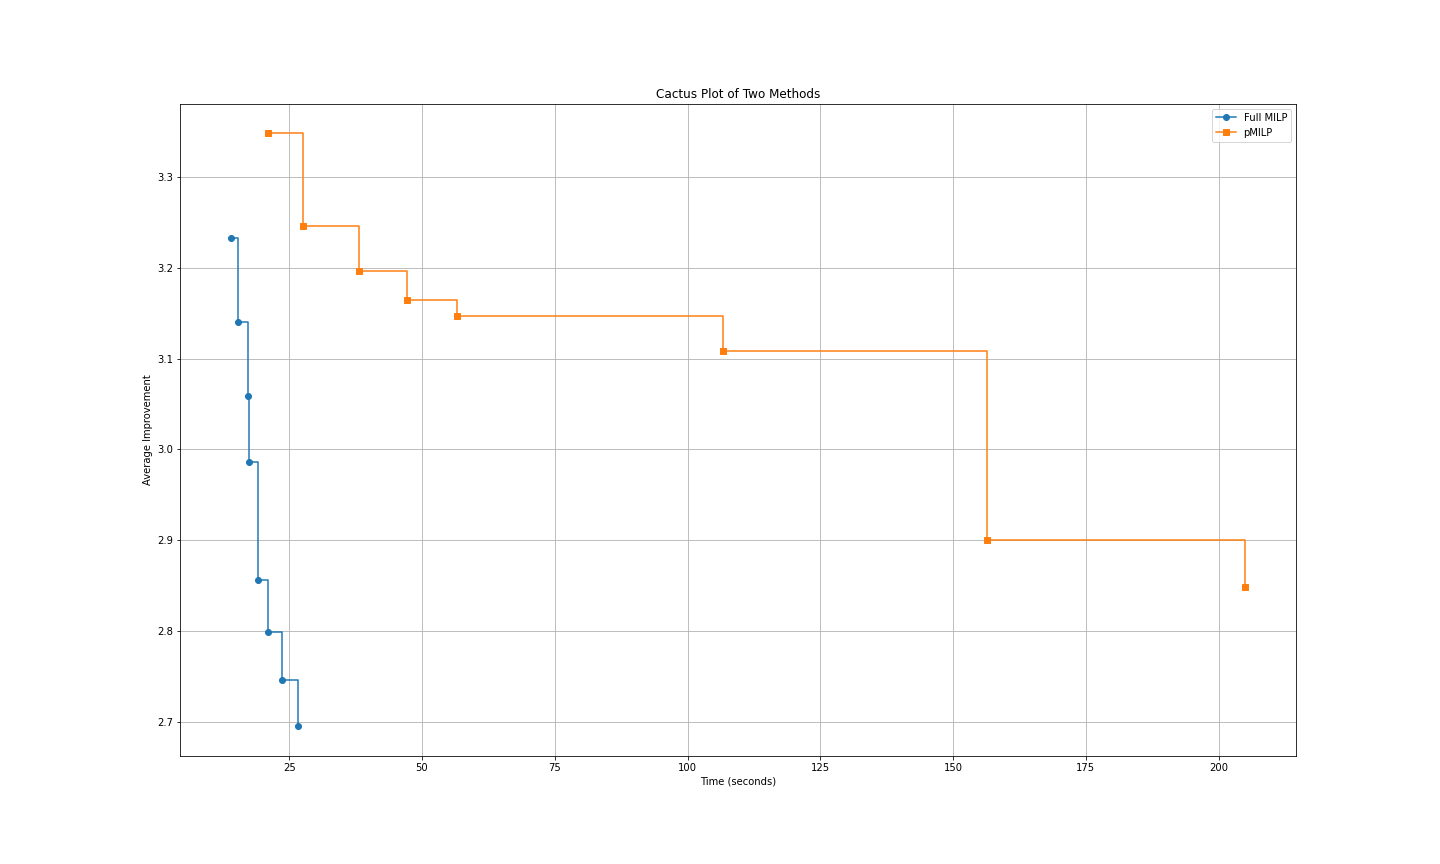
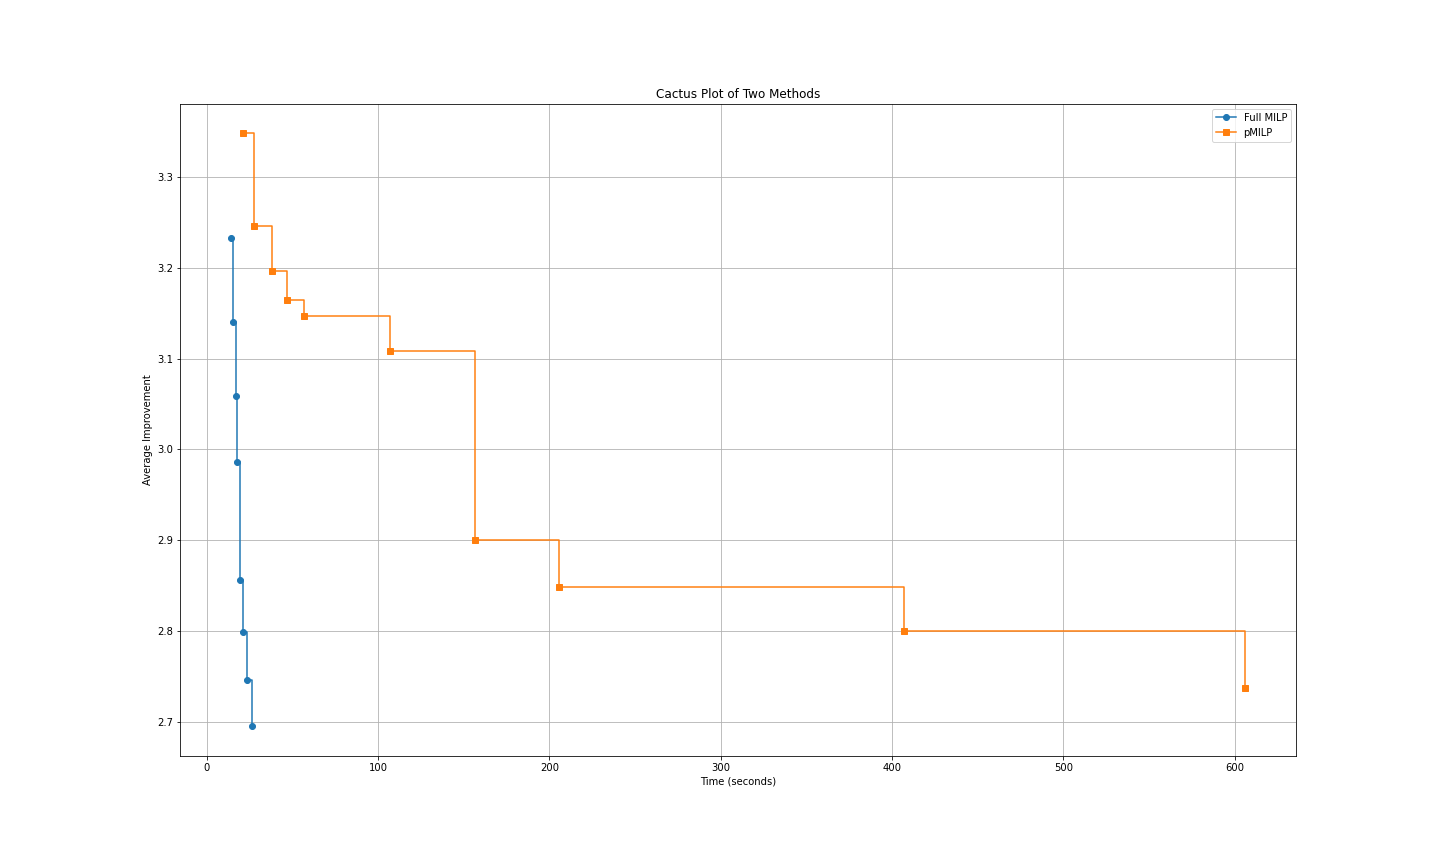
update

diff --git a/ICLR25/proofs.tex b/ICLR25/proofs.tex
@@ -165,7 +165,9 @@ On CIFAR CNN-B-adv, NNenum was much less accurate than $\alpha,\beta$-CROWN, and
 			\hline	56.7 & 3.146913614\\
 			\hline	106.7 & 3.108035223\\
 			\hline	156.3 & 2.900438725\\
-			\hline	205 & 2.84864842617\\	
+			\hline	205.8 & 2.84864842617\\	
+			\hline	406.7 & 2.80026826460361 \\	
+			\hline	606.1 & 2.737064255595137\\	
 			\hline
 			
 			
@@ -182,7 +184,7 @@ On CIFAR CNN-B-adv, NNenum was much less accurate than $\alpha,\beta$-CROWN, and
 	
 	\begin{figure}[h]\hspace*{-0.8cm}
 			\includegraphics[scale=0.4]{Layer7_comparison.png}.
-			\caption{}
+			\caption{Comparison of full MILP and pMILP on layer7}
 			\label{fig3}
 	\end{figure}
 	
@@ -247,6 +249,6 @@ On CIFAR CNN-B-adv, NNenum was much less accurate than $\alpha,\beta$-CROWN, and
 	
 		\begin{figure}[h]\hspace*{-1cm}
 		\includegraphics[scale=0.6]{Layer3_comparison.png}.
-		\caption{}
+		\caption{Comparison of layer3 when layer 1 is MILP or LP}
 		\label{fig4}
 	\end{figure}
